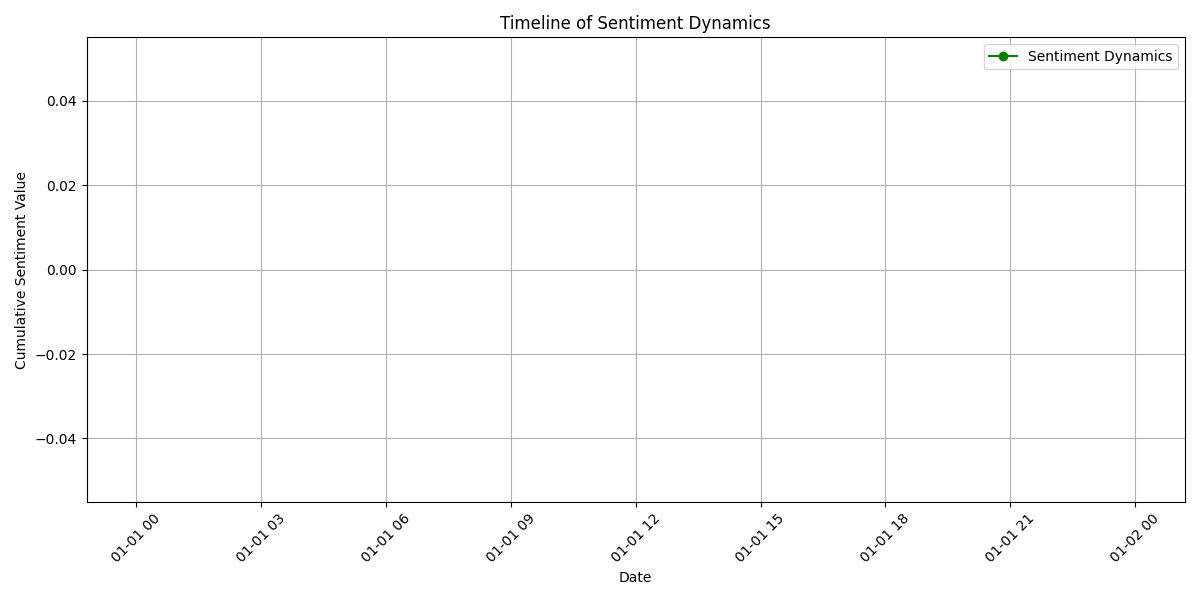
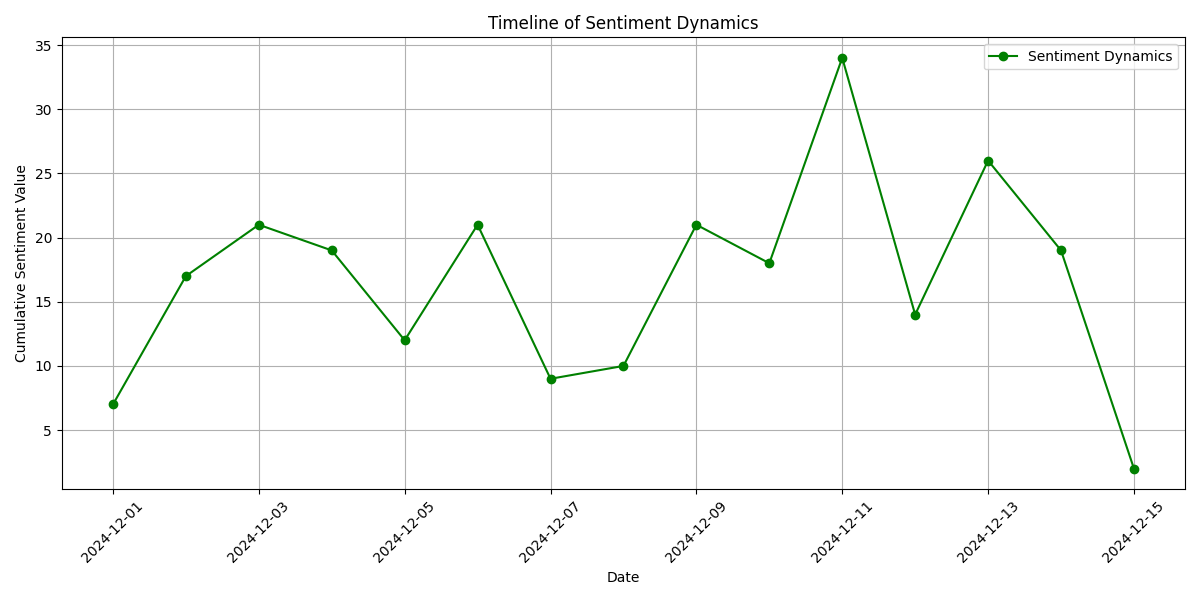
Исправил ошибки в проекте.

diff --git a/core/graphics.py b/core/graphics.py
@@ -1,8 +1,6 @@
 import os
 import matplotlib.pyplot as plt
 import pandas as pd
-import torch
-
 from core.test_files.test_fetcher import processed_messages
 from transformers import AutoModelForSequenceClassification, AutoTokenizer
 
@@ -19,33 +17,35 @@ class DataVisualizer:
 
     def analyze_sentiment(self, text):
         max_length = 512
-        inputs = self.sentiment_tokenizer(text, return_tensors="pt", truncation=True, padding=True,
-                                          max_length=max_length)
+        inputs = self.sentiment_tokenizer(
+            text,
+            return_tensors="pt",
+            truncation=True,
+            padding=True,
+            max_length=max_length
+        )
         outputs = self.sentiment_model(**inputs)
         return outputs.logits.argmax(dim=-1).item()
 
-    def _convert_sentiment(self, sentiment_label):
-        sentiment_map = {"Positive": 1, "Negative": -1, "Neutral": 0}
-        return sentiment_map.get(sentiment_label, 0)
-
     def _prepare_data(self):
         data = {
-            "Date": [msg.content for msg in self.messages],
-            "SentimentScore": [
-                self._convert_sentiment(self.analyze_sentiment(msg.content)) for msg in self.messages
-            ]
+            "Date": [msg.timestamp for msg in self.messages],
+            "SentimentScore": [self.analyze_sentiment(msg.content) for msg in self.messages],
         }
         df = pd.DataFrame(data)
-
-        print(df["Date"])
-
         df["Date"] = pd.to_datetime(df["Date"], format="%d/%m/%Y", dayfirst=True, errors="coerce")
         return df.groupby("Date").sum().reset_index()
 
     def create_general_timeline(self):
         plt.figure(figsize=(12, 6))
-        plt.plot(self.data_frame["Date"], self.data_frame["SentimentScore"], marker="o", linestyle="-", color="g",
-                 label="Sentiment Dynamics")
+        plt.plot(
+            self.data_frame["Date"],
+            self.data_frame["SentimentScore"],
+            marker="o",
+            linestyle="-",
+            color="g",
+            label="Sentiment Dynamics"
+        )
         plt.title("Timeline of Sentiment Dynamics")
         plt.xlabel("Date")
         plt.ylabel("Cumulative Sentiment Value")
@@ -56,65 +56,8 @@ class DataVisualizer:
         return plt
 
     def save_plot(self, output_file: str):
-        plt.figure(figsize=(12, 6))
-        plt.plot(self.data_frame["Date"], self.data_frame["SentimentScore"], marker="o", linestyle="-", color="g",
-                 label="Sentiment Dynamics")
-        plt.title("Timeline of Sentiment Dynamics")
-        plt.xlabel("Date")
-        plt.ylabel("Cumulative Sentiment Value")
-        plt.xticks(rotation=45)
-        plt.grid(visible=True)
-        plt.legend()
-        plt.tight_layout()
-
+        plt = self.create_general_timeline()
         plot_path = os.path.join("images", output_file)
         plt.savefig(plot_path)
         print(f"График сохранён как {plot_path}")
 
-    def create_histogram(self):
-        sentiment_counts = self.data_frame["SentimentScore"].value_counts()
-
-        plt.figure(figsize=(12, 6))
-        plt.bar(sentiment_counts.index, sentiment_counts.values, color="skyblue", edgecolor="black")
-        plt.title("Sentiment Score Histogram")
-        plt.xlabel("Sentiment")
-        plt.ylabel("Frequency")
-        plt.xticks([-1, 0, 1], ["Negative", "Neutral", "Positive"])
-        plt.grid(axis="y", linestyle="--", alpha=0.7)
-        plt.tight_layout()
-        return plt
-
-    def create_topic_frequency_hist(self, topic_list: list, labels: pd.Series):
-        topic_counts = labels.value_counts()
-        filtered_counts = topic_counts.reindex(topic_list, fill_value=0)
-
-        plt.figure(figsize=(10, 6))
-        plt.bar(filtered_counts.index, filtered_counts.values, color="skyblue", edgecolor="black")
-        plt.title("Topic Frequency")
-        plt.xlabel("Topic")
-        plt.ylabel("Frequency")
-        plt.grid(axis="y", linestyle="--", alpha=0.7)
-        plt.tight_layout()
-        return plt
-
-    def save_plt(self, output_file: str, plt: plt):
-        plot_path = os.path.join("images", output_file)
-        plt.savefig(plot_path)
-        print(f"График сохранён как {plot_path}")
-
-
-if __name__ == "__main__":
-    sentiment_model = AutoModelForSequenceClassification.from_pretrained("MonoHime/rubert-base-cased-sentiment-new")
-    sentiment_tokenizer = AutoTokenizer.from_pretrained("MonoHime/rubert-base-cased-sentiment-new")
-
-    visualizer = DataVisualizer(processed_messages, sentiment_model, sentiment_tokenizer)
-
-    visualizer.create_general_timeline().show()
-
-    visualizer.save_plot("sentiment_timeline.png")
-
-    visualizer.create_histogram().show()
-
-    topic_list = ["Topic 1", "Topic 2"]
-    labels = pd.Series(["Topic 1", "Topic 2", "Topic 1", "Topic 2"])
-    visualizer.create_topic_frequency_hist(topic_list, labels).show()

diff --git a/main.py b/main.py
@@ -1,0 +1,20 @@
+from core.graphics import DataVisualizer
+from transformers import AutoModelForSequenceClassification, AutoTokenizer
+from core.test_files.test_fetcher import processed_messages
+
+def main():
+    # Загружаем модель и токенизатор
+    sentiment_model = AutoModelForSequenceClassification.from_pretrained("MonoHime/rubert-base-cased-sentiment-new")
+    sentiment_tokenizer = AutoTokenizer.from_pretrained("MonoHime/rubert-base-cased-sentiment-new")
+
+    # Создаём объект визуализации
+    visualizer = DataVisualizer(processed_messages, sentiment_model, sentiment_tokenizer)
+
+    # Показываем график
+    visualizer.create_general_timeline().show()
+
+    # Сохраняем график
+    visualizer.save_plot("sentiment_timeline.png")
+
+if __name__ == "__main__":
+    main()

diff --git a/core/message_processor.py b/core/message_processor.py
@@ -30,7 +30,7 @@ class TelegramMessage:
 class DataFetcher:
     def __init__(self):
         self.base_path = os.path.dirname(__file__)
-        self.html_file = "messages.html"
+        self.html_file = os.path.join(os.path.dirname(__file__), 'messages.html')
 
     def extract_html(self) -> list:
         with open(self.html_file, 'r', encoding='utf-8') as file:
